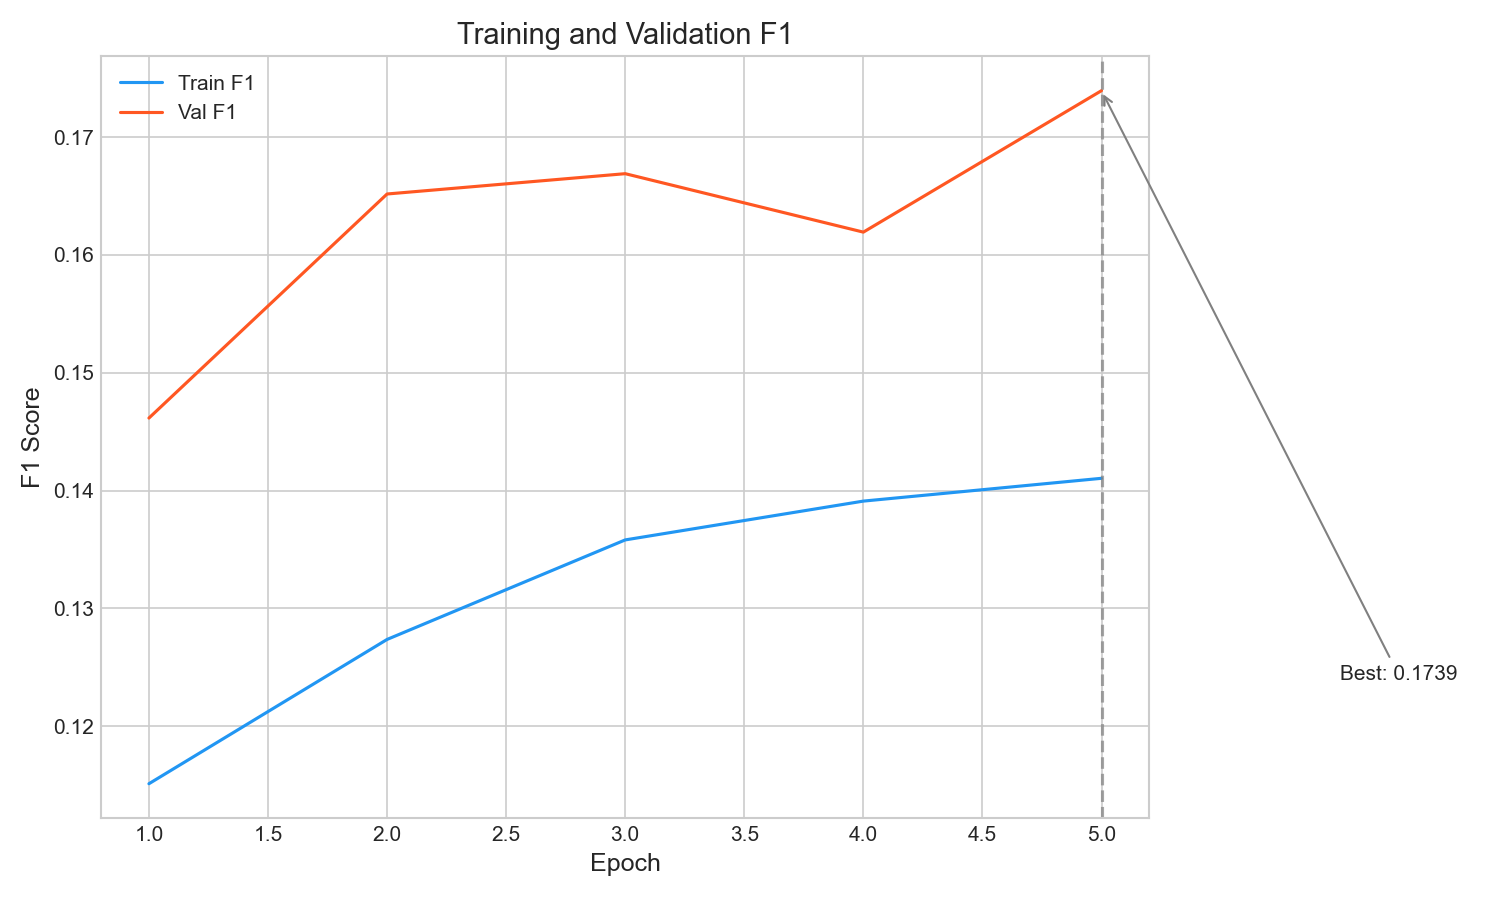
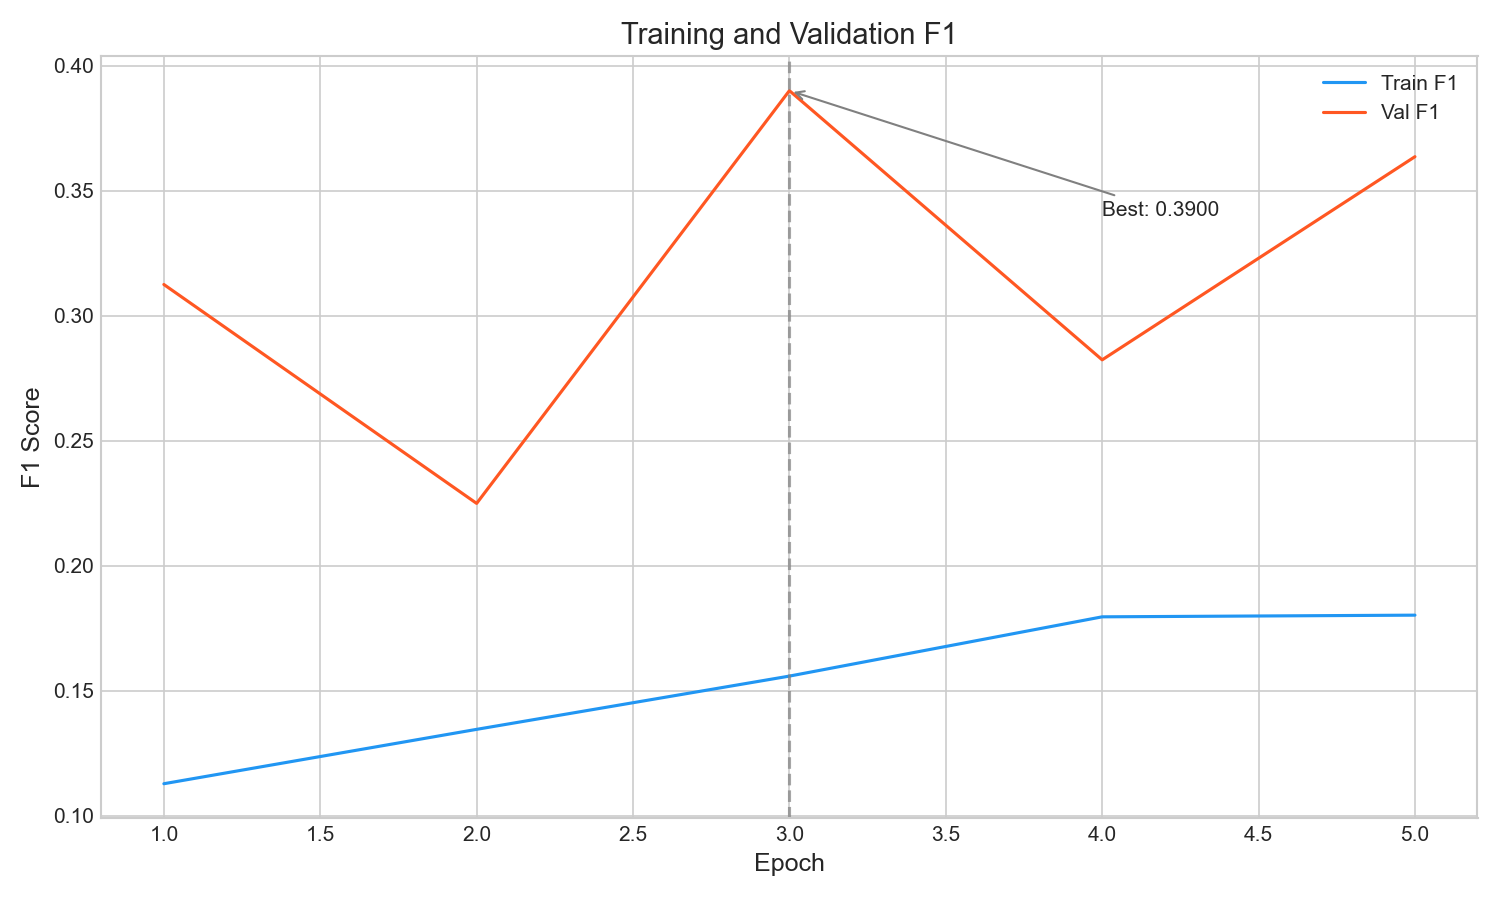
dualghraph graphsage

diff --git a/models/graphsage/train.py b/models/graphsage/train.py
@@ -7,23 +7,22 @@ from pathlib import Path
 import torch
 from torch_geometric.data import Data
 
-# allow running as a script from any cwd
 sys.path.insert(0, str(Path(__file__).resolve().parents[2]))
 
-from models.graphsage.model import UVSeamGNN
+from models.graphsage.model import DualGraphSAGE
 from models.utils.dataset import compute_pos_weight, load_dataset, split_dataset
 from models.utils.experiment_log import ExperimentLogger
 from models.utils.metrics import edge_f1
 
 
 def _run_epoch(
-    model: UVSeamGNN,
+    model: DualGraphSAGE,
     graphs: list[Data],
     criterion: torch.nn.Module,
     device: torch.device,
     optimizer: torch.optim.Optimizer | None = None,
 ) -> tuple[float, dict]:
-    """Single pass over a list of graphs. Returns (mean_loss, mean_metrics)."""
+    """Single pass over dual graphs. Returns (mean_loss, mean_metrics)."""
     training = optimizer is not None
     model.train(training)
 
@@ -35,10 +34,9 @@ def _run_epoch(
         for data in graphs:
             x = data.x.to(device)
             edge_index = data.edge_index.to(device)
-            edge_attr = data.edge_attr.to(device)
             y = data.y.to(device)
 
-            logits = model(x, edge_index, edge_attr)
+            logits = model(x, edge_index)
             loss = criterion(logits, y)
 
             if training:
@@ -50,9 +48,7 @@ def _run_epoch(
             all_logits.append(logits.detach().cpu())
             all_labels.append(y.cpu())
 
-            # explicitly free GPU tensors — Python's GC isn't eager enough
-            # and activations accumulate across graph iterations
-            del x, edge_index, edge_attr, y, logits, loss
+            del x, edge_index, y, logits, loss
             torch.cuda.empty_cache()
 
     mean_loss = total_loss / len(graphs)
@@ -66,13 +62,6 @@ def main(args: argparse.Namespace) -> None:
 
     dataset = load_dataset(args.dataset)
 
-    if args.max_edges:
-        before = len(dataset)
-        dataset = [d for d in dataset if d.edge_index.shape[1] <= args.max_edges]
-        skipped = before - len(dataset)
-        if skipped:
-            print(f"skipped {skipped} graph(s) exceeding --max-edges {args.max_edges}")
-
     train, val, test = split_dataset(dataset, val_ratio=args.val_ratio, test_ratio=args.test_ratio)
     print(f"split — train: {len(train)}, val: {len(val)}, test: {len(test)}")
 
@@ -81,16 +70,14 @@ def main(args: argparse.Namespace) -> None:
 
     criterion = torch.nn.BCEWithLogitsLoss(pos_weight=pos_weight)
 
-    model = UVSeamGNN(
-        node_in_dim=args.node_dim,
-        edge_in_dim=args.edge_dim,
+    model = DualGraphSAGE(
+        in_dim=args.in_dim,
         hidden_dim=args.hidden,
+        num_layers=args.num_layers,
         dropout=args.dropout,
     ).to(device)
 
     optimizer = torch.optim.AdamW(model.parameters(), lr=args.lr, weight_decay=1e-4)
-
-    # halve LR if val F1 stagnates for 5 epochs
     scheduler = torch.optim.lr_scheduler.ReduceLROnPlateau(
         optimizer, mode='max', factor=0.5, patience=5
     )
@@ -98,10 +85,10 @@ def main(args: argparse.Namespace) -> None:
     logger = ExperimentLogger(
         run_dir=args.run_dir,
         config={
-            'model': 'GraphSAGE',
-            'node_in_dim': args.node_dim,
-            'edge_in_dim': args.edge_dim,
+            'model': 'DualGraphSAGE',
+            'in_dim': args.in_dim,
             'hidden_dim': args.hidden,
+            'num_layers': args.num_layers,
             'dropout': args.dropout,
             'lr': args.lr,
             'patience': args.patience,
@@ -177,21 +164,19 @@ def main(args: argparse.Namespace) -> None:
 
 
 if __name__ == '__main__':
-    parser = argparse.ArgumentParser(description="Train UV-seam GNN (GraphSAGE).")
+    parser = argparse.ArgumentParser(description="Train DualGraphSAGE on dual graph for UV-seam prediction.")
 
     timestamp = datetime.now().strftime('%Y%m%d_%H%M%S')
-    parser.add_argument('--dataset', default='dataset.pt', help='path to dataset.pt')
-    parser.add_argument('--run-dir', default=f'runs/graphsage_{timestamp}', help='experiment output dir')
+    parser.add_argument('--dataset', default='dataset_dual.pt', help='path to dual dataset')
+    parser.add_argument('--run-dir', default=f'runs/dual_graphsage_{timestamp}', help='experiment output dir')
     parser.add_argument('--epochs', type=int, default=100)
     parser.add_argument('--lr', type=float, default=1e-3)
     parser.add_argument('--hidden', type=int, default=128)
+    parser.add_argument('--num-layers', type=int, default=3)
     parser.add_argument('--dropout', type=float, default=0.3)
     parser.add_argument('--patience', type=int, default=15, help='early-stop patience')
     parser.add_argument('--val-ratio', type=float, default=0.15)
     parser.add_argument('--test-ratio', type=float, default=0.10)
-    parser.add_argument('--node-dim', type=int, default=6, help='node feature dim (default: 6)')
-    parser.add_argument('--edge-dim', type=int, default=11, help='edge feature dim (default: 11)')
-    parser.add_argument('--max-edges', type=int, default=2_000_000,
-                        help='skip graphs with more directed edges than this (default: 2M)')
+    parser.add_argument('--in-dim', type=int, default=11, help='dual node feature dim (default: 11)')
 
     main(parser.parse_args())

diff --git a/models/graphsage/model.py b/models/graphsage/model.py
@@ -1,56 +1,55 @@
 import torch
 import torch.nn as nn
+import torch.nn.functional as F
 from torch_geometric.nn import SAGEConv
 
 
-class UVSeamGNN(nn.Module):
+class DualGraphSAGE(nn.Module):
+    """GraphSAGE for edge classification via dual graph node classification.
+
+    Same dual-graph approach as DualGATv2 but with SAGEConv aggregation.
+    Enables fair architecture comparison on identical data.
+    """
+
     def __init__(
         self,
-        node_in_dim: int = 6,
-        edge_in_dim: int = 11,
+        in_dim: int = 11,
         hidden_dim: int = 128,
+        num_layers: int = 3,
         dropout: float = 0.3,
     ):
         super().__init__()
-        self.conv1 = SAGEConv(node_in_dim, hidden_dim)
-        self.conv2 = SAGEConv(hidden_dim, hidden_dim)
-        self.conv3 = SAGEConv(hidden_dim, hidden_dim)
+        self.num_layers = num_layers
+        self.dropout = dropout
 
-        edge_repr_dim = hidden_dim * 2 + edge_in_dim
-        self.edge_mlp = nn.Sequential(
-            nn.Linear(edge_repr_dim, hidden_dim),
-            nn.ReLU(),
-            nn.Dropout(dropout),
+        self.convs = nn.ModuleList()
+        self.norms = nn.ModuleList()
+
+        # first layer: in_dim -> hidden_dim
+        self.convs.append(SAGEConv(in_dim, hidden_dim))
+        self.norms.append(nn.LayerNorm(hidden_dim))
+
+        # remaining layers: hidden_dim -> hidden_dim (all support residuals)
+        for _ in range(num_layers - 1):
+            self.convs.append(SAGEConv(hidden_dim, hidden_dim))
+            self.norms.append(nn.LayerNorm(hidden_dim))
+
+        self.classifier = nn.Sequential(
             nn.Linear(hidden_dim, hidden_dim // 2),
             nn.ReLU(),
             nn.Dropout(dropout),
             nn.Linear(hidden_dim // 2, 1),
         )
 
-        self.act = nn.ReLU()
-        self.dropout = nn.Dropout(dropout)
+    def forward(self, x: torch.Tensor, edge_index: torch.Tensor) -> torch.Tensor:
+        for i, (conv, norm) in enumerate(zip(self.convs, self.norms)):
+            h = conv(x, edge_index)
+            h = norm(h)
+            h = F.relu(h)
+            h = F.dropout(h, p=self.dropout, training=self.training)
 
-    def forward(
-        self,
-        x: torch.Tensor,           # [N, node_in_dim]
-        edge_index: torch.Tensor,  # [2, E]
-        edge_attr: torch.Tensor,   # [E, edge_in_dim]
-        chunk_size: int = 100_000,
-    ) -> torch.Tensor:             # [E] logits
-        h = self.act(self.conv1(x, edge_index))
-        h = self.dropout(h)
-        h2 = self.act(self.conv2(h, edge_index))
-        h2 = self.dropout(h2)
-        h3 = self.act(self.conv3(h2, edge_index)) + h2  # residual
-        h = self.dropout(h3)
+            if i > 0 and h.shape == x.shape:
+                h = h + x
+            x = h
 
-        src, dst = edge_index[0], edge_index[1]
-
-        chunks = []
-        for i in range(0, src.shape[0], chunk_size):
-            s = src[i:i + chunk_size]
-            d = dst[i:i + chunk_size]
-            ea = edge_attr[i:i + chunk_size]
-            chunks.append(self.edge_mlp(torch.cat([h[s], h[d], ea], dim=-1)).squeeze(-1))
-
-        return torch.cat(chunks, dim=0)
+        return self.classifier(x).squeeze(-1)
